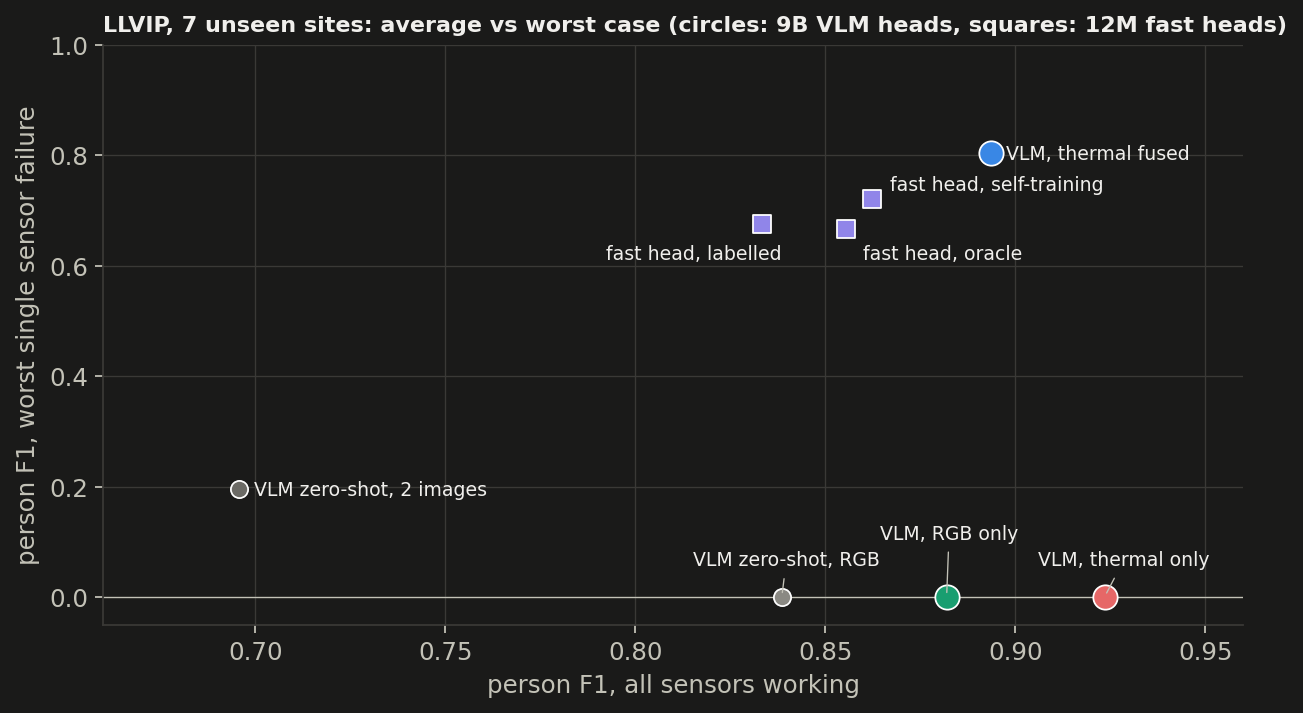
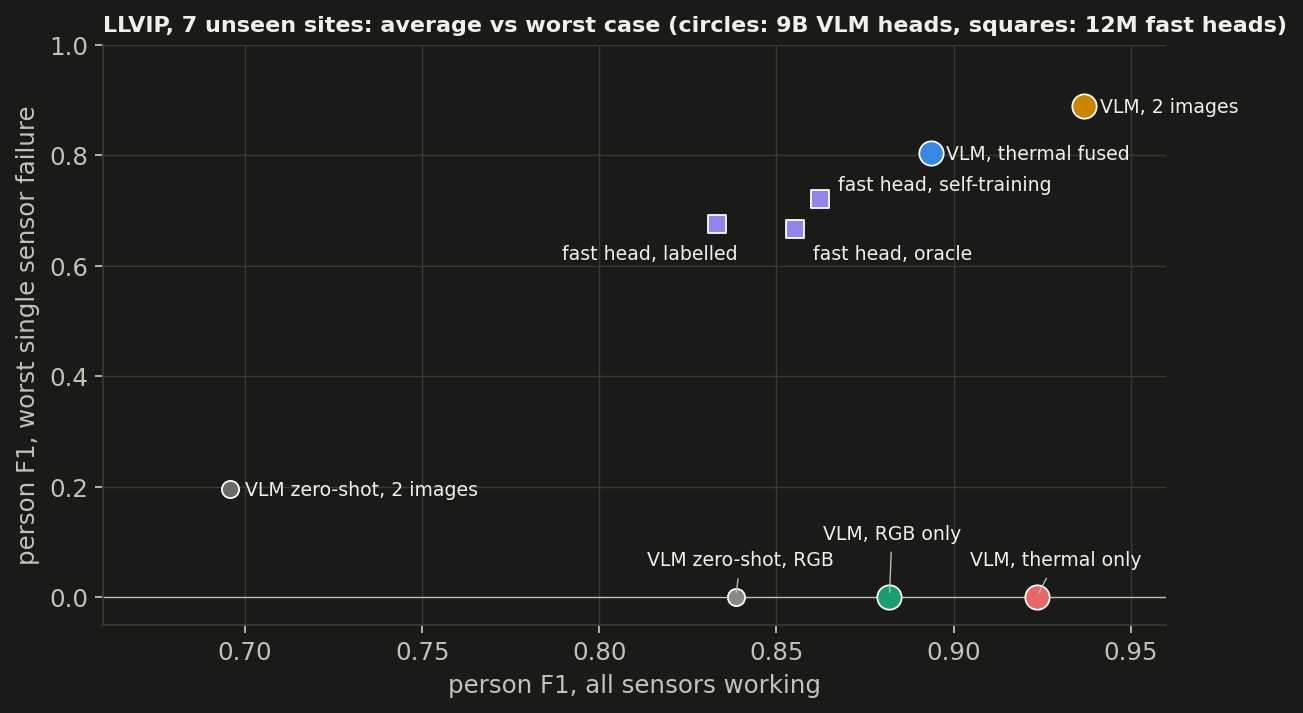
Dual robust (camera dead 0.929, thermal dead 0.889): two-image fine-tuning dominates side-branch fusion; README/blog LLVIP story rewritten; worst-case figure updated

diff --git a/README.md b/README.md
@@ -71,8 +71,9 @@ What the runs show:
 | Qwen3.5-9B zero-shot, RGB | 0.839 | 0.80–0.88 | 0.00 | n/a | 0.00 | 0.832 |
 | zero-shot, thermal as a 2nd image | 0.696 | 0.64–0.78 | 0.20 | 0.83 | 0.20 | – |
 | 9B fine-tuned, RGB only (same recipe) | 0.882 | 0.83–0.92 | 0.00 | n/a (no thermal input) | **0.00** | 0.820 |
-| **9B fine-tuned, thermal only** (thermal fed as the image) | **0.923** | 0.89–0.95 | n/a (no camera input) | 0.00 | **0.00** | 0.891 |
-| **9B fine-tuned, thermal fused onto its tokens** | 0.894 | 0.87–0.93 | **0.80** | **0.88** | **0.80** | **0.902** |
+| 9B fine-tuned, thermal only (thermal fed as the image) | 0.923 | 0.89–0.95 | n/a (no camera input) | 0.00 | **0.00** | 0.891 |
+| 9B fine-tuned, thermal fused as a side branch onto the RGB tokens | 0.894 | 0.87–0.93 | 0.80 | 0.88 | 0.80 | 0.902 |
+| **9B fine-tuned, RGB and thermal as two images** (2× visual tokens) | **0.937** | **0.92–0.95** | **0.93** | **0.89** | **0.89** | **0.916** |
 | brightness router: fused head on dark frames, RGB-only head on bright ones | 0.910 | 0.89–0.94 | – | – | – | 0.902 |
 | 12M fast head, 7 labelled sites (3 seeds) | 0.82 (0.80–0.83) | | 0.83 (s0) | 0.68* (s0) | 0.68* | 0.77 (0.75–0.79) |
 | … same, trained for as many steps as the pseudo-label students (3 seeds) | 0.84* (0.83–0.86) | | 0.83* (s0) | 0.41* (s0) | 0.41* | |
@@ -80,29 +81,27 @@ What the runs show:
 | 12M student of the 9B, consensus-filtered labels on 11 unlabeled sites (seeds 0 / 1 / 2) | 0.866 / 0.834 / 0.867 | 0.83–0.89 (s0) | 0.85* (s0) | 0.72* (s0) | 0.72* | 0.852 (s0) |
 | 12M fast head, human labels on all 18 sites (oracle) | 0.857 | 0.83–0.88 | 0.84* | 0.67* | 0.67* | 0.839 |
 
-- **The strongest single model is thermal-only, not the fused one.** The fine-tuned 9B with thermal fed straight into its
-  own ViT reaches 0.923, +0.042 over RGB-only [+0.007, +0.074] on 6/7 sites. On average, fusion is −0.030 against it
-  [−0.066, +0.012], and the regression gate blocks the fused head against thermal-only.
-- **Fusion buys the worst case, not the average.** If either sensor dies, the fused head keeps 0.80 with the camera
-  dead and 0.88 with thermal dead. Both single-sensor heads drop to 0.00 when their own sensor fails. For a robot that
-  must keep working through a dirty lens or a failed thermal core, that redundancy is the reason to fuse. The
-  operational design is to run the strongest healthy single-sensor head and fall back to the fused head on a sensor
-  fault.
+- **The simple baseline wins.** Fine-tuning the 9B on RGB and thermal as two separate images gives the best model on
+  every axis:
+  - average 0.937, +0.013 over thermal-only [+0.003, +0.027] on 6/7 sites, and +0.055 over RGB-only on 7/7
+  - worst single sensor failure 0.89 (camera dead 0.93, thermal dead 0.89)
+  - its cost is twice the visual tokens
+
+  Zero-shot, the same input was the *worst* model (0.696: it counts people twice across the two images). That
+  zero-shot result is what motivated my side-branch design, and the motivation does not survive fine-tuning.
+- **My side-branch fusion lost to it:** −0.043 [−0.071, −0.013], worse on all 7 sites. It keeps the RGB token budget
+  and survives either sensor failing (worst case 0.80, where single-sensor heads drop to 0). But on LLVIP it is beaten
+  by the two-image model in accuracy *and* robustness. Its only advantage is half the visual tokens. The fail-closed
+  regression gate blocked it against every stronger baseline. That gate is the part of this project I would carry to a
+  production fusion team.
 
   ![Average vs worst case](docs/media/fig_llvip_worst_case.png)
 
-- **Most of the gain over zero-shot is fine-tuning** (RGB-only: +0.043). Against RGB-only, fusion adds +0.012 overall
-  [−0.022, +0.065], which is not significant. But the gain tracks darkness: +0.13 on the darkest site, +0.08 on the darkest quarter of
-  frames, and −0.03 on the two brightest sites. With the camera black, the fused head keeps 0.80 and the RGB-only head
-  gets 0.
-- **The regression gate blocked the fused head** for those two bright-site regressions. A brightness router fixes it:
-  - it sends dark frames to the fused head and bright frames to the RGB-only head, with the threshold set at the
-    training-split median and no test data used
-  - it reaches 0.910, +0.028 [+0.004, +0.072] over RGB-only
-  - it passes the gate with no slice regressing
-  - both heads share one base model, so routing is an adapter swap
-  - caveat: I designed the router after seeing the per-site pattern, so it is exploratory. Router − fused is +0.016
-    [−0.004, +0.032], better on only 2 of 7 sites (the two bright ones). The dark-quarter score is the fused head's own.
+- Other comparisons on the same frames:
+  - Thermal-only beats RGB-only by +0.042 [+0.007, +0.074].
+  - The side-branch fusion beats RGB-only only in the dark: +0.13 on the darkest site, −0.03 on the two brightest.
+  - A brightness router between the fused and RGB-only heads reaches 0.910 (exploratory, designed after seeing the
+    per-site pattern).
 - Thermal as a plain second image *hurts* zero-shot on all 7 sites.
 
 ![Fusion gain vs scene brightness](docs/media/fig_llvip_fusion_vs_lum.png)

diff --git a/docs/BLOG_DRAFT.md b/docs/BLOG_DRAFT.md
@@ -59,15 +59,14 @@ On 1,500 frames from the 7 test sites, with confidence intervals from resampling
 <tr><td><b>Fine-tuned, thermal only</b> (thermal fed as the image)</td><td><b>0.923</b></td><td>0.89–0.95</td><td>0.891</td><td>n/a</td><td><b>0.00</b></td></tr>
 <tr><td>Fine-tuned, thermal fused onto the RGB tokens</td><td>0.894</td><td>0.87–0.93</td><td><b>0.902</b></td><td><b>0.80</b></td><td><b>0.88</b></td></tr>
 <tr><td>Brightness router (fused head if dark, RGB-only if bright)</td><td>0.910</td><td>0.89–0.94</td><td>0.902</td><td>–</td><td>–</td></tr>
+<tr><td><b>Fine-tuned, RGB and thermal as two images</b> (2× tokens)</td><td><b>0.937</b></td><td>0.92–0.95</td><td><b>0.916</b></td><td><b>0.93</b></td><td><b>0.89</b></td></tr>
 </tbody>
 </table>
 </div>
 
-I expected the fused model to win. It does not, on average. The **thermal-only** model is the strongest single head: +0.042 over RGB-only (CI +0.007 to +0.074), better on 6 of 7 sites. On LLVIP's clean night thermal, feeding thermal straight through the VLM's own image encoder beats adding it as a side branch. Against thermal-only, fusion is −0.030 (not significant), and my fail-closed regression gate blocks it.
+I expected my fused model to win. It did not. The winner is the simplest baseline: fine-tune the VLM on the RGB and thermal frames as two separate images. It reaches 0.937, ahead of thermal-only (+0.013, 6 of 7 sites), RGB-only (+0.055, 7 of 7) and my side-branch fusion (+0.043, 7 of 7). It also keeps working when either camera dies (0.93 without the RGB camera, 0.89 without thermal). Zero-shot, the same two-image input was the worst model of all (0.696), because it counted people twice. That zero-shot number is why I built the side branch in the first place, and fine-tuning removed the problem.
 
-What fusion does buy is the **worst case**. The fused model is the only one that keeps working when either sensor dies: 0.80 with the camera dead, 0.88 with the thermal camera dead. Both single-sensor models drop to 0.00 when their own sensor fails. For a security robot, a dirty lens or a failed thermal core is a when, not an if. So the deployable design is to run the strongest healthy single-sensor head and fall back to the fused head on a sensor fault.
-
-![Average vs worst case](/nightwatch/fig_llvip_worst_case.png)
+My side-branch fusion keeps the RGB token budget and does survive either sensor failing (worst case 0.80, where both single-sensor models drop to 0). But on this dataset, twice the tokens buys a better model on every axis. My fail-closed regression gate blocked the fused model against every stronger baseline. That is the part I would bring to a fusion team on day one: a gate that refuses its author's favourite model.
 
 Two details made this concrete:
 - **The fusion gain tracks darkness.** Against RGB-only, it is +0.13 on the darkest site and about −0.035 on the two brightest. The gate blocked the fused head for those two bright sites. A router that sends dark frames to the fused head (threshold: the median brightness of the *training* frames) gets 0.910 and passes the gate. I designed it after seeing the per-site pattern, so I count it as exploratory.
